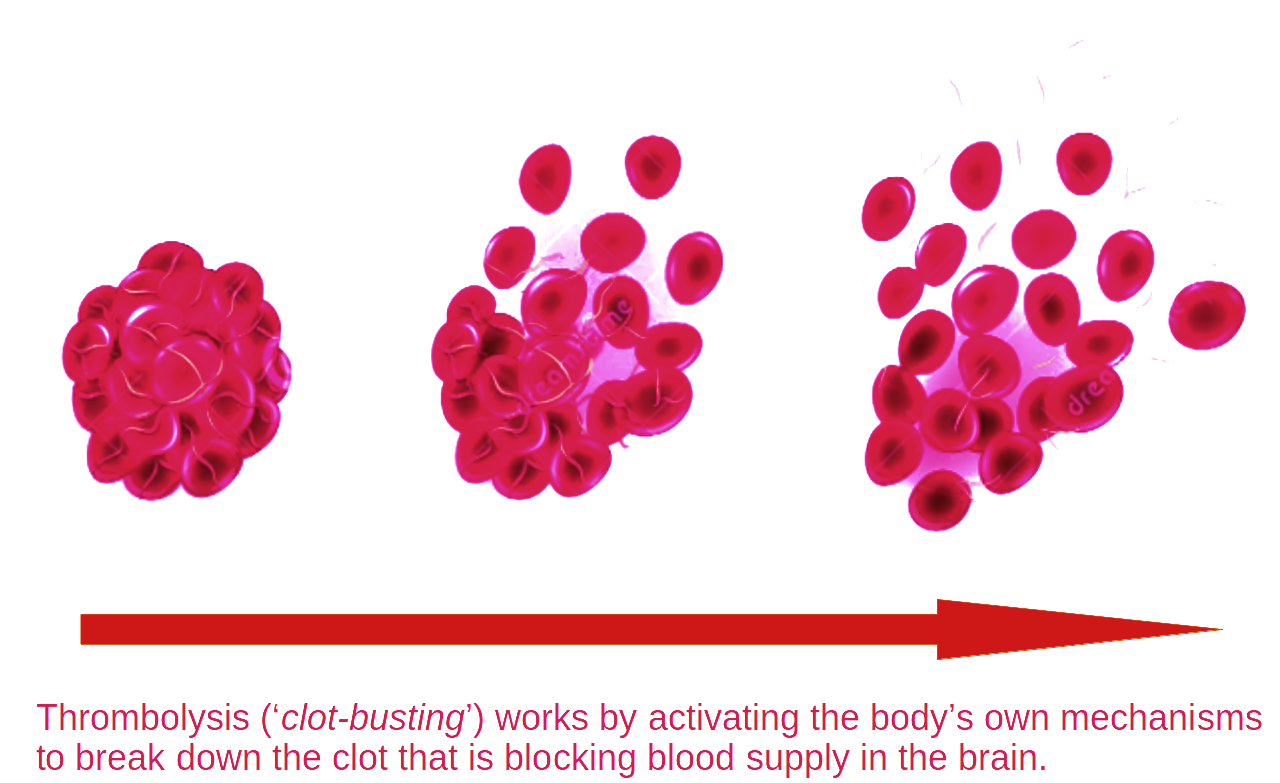
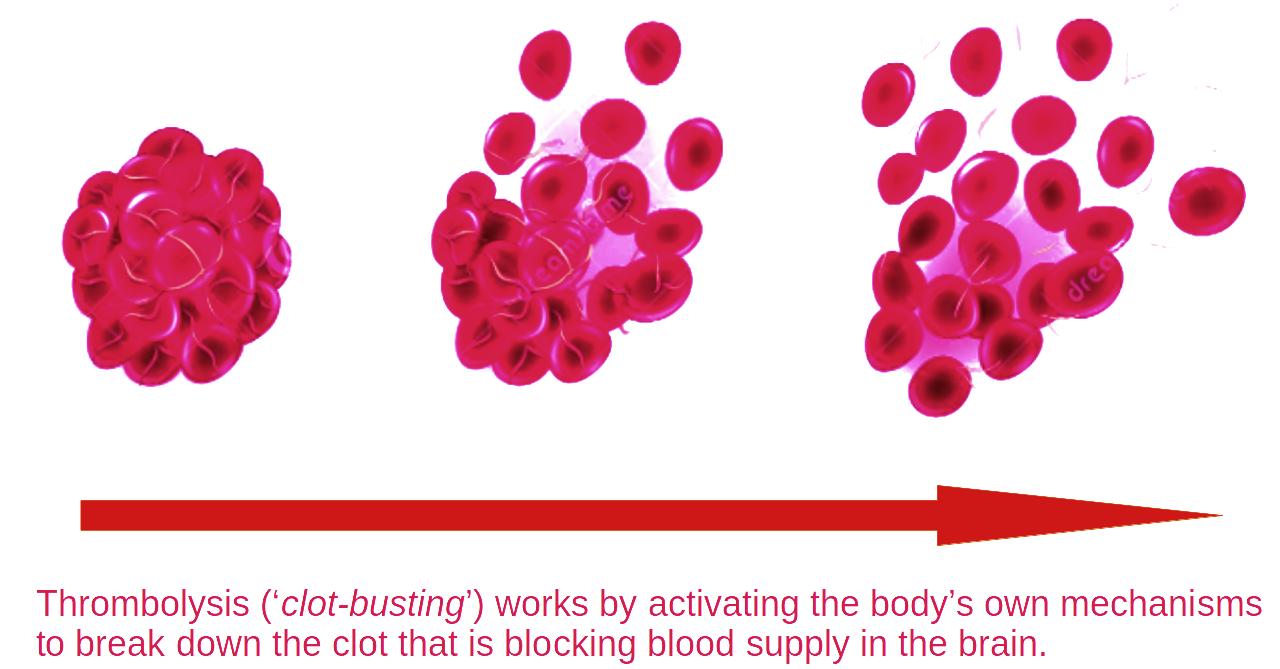
Updates from Overleaf

diff --git a/slides/000_thrombolysis_mechanism.tex b/slides/000_thrombolysis_mechanism.tex
@@ -4,7 +4,7 @@
 While the clot is still fresh (the first few hours), thrombolysis may be given to help break down the clot and restore blood flow.
 
 \begin{center}
-\includegraphics[width=0.8\textwidth]{./images/thrombolysis_mechanism}
+\includegraphics[width=0.85\textwidth]{./images/thrombolysis_mechanism}
 \end{center}
 
 
